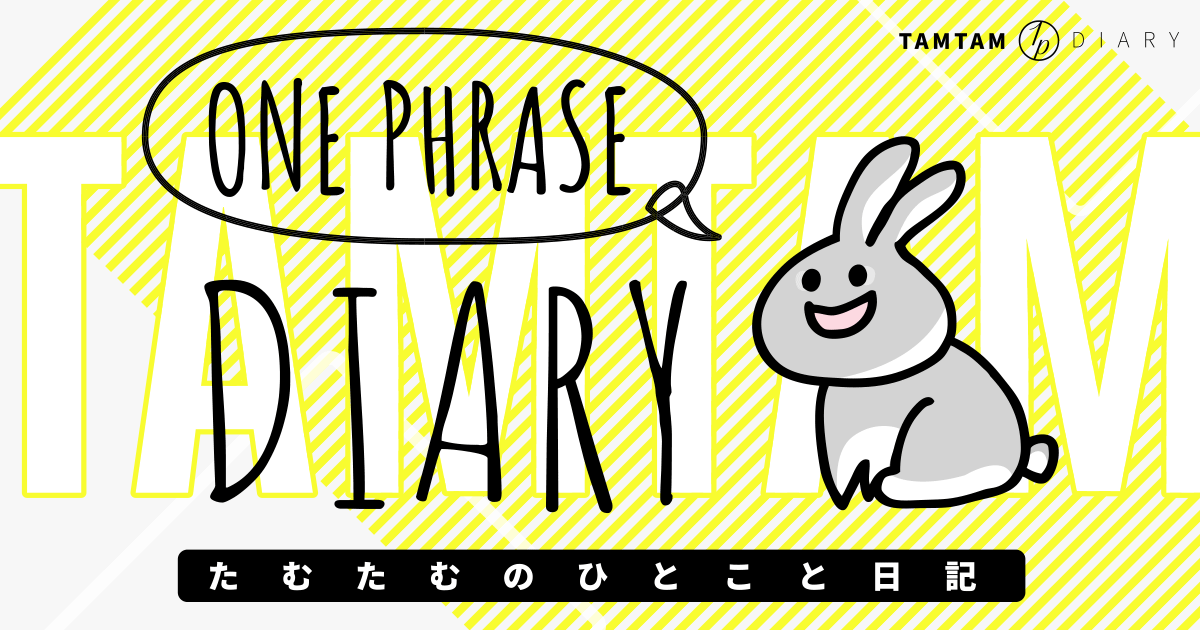
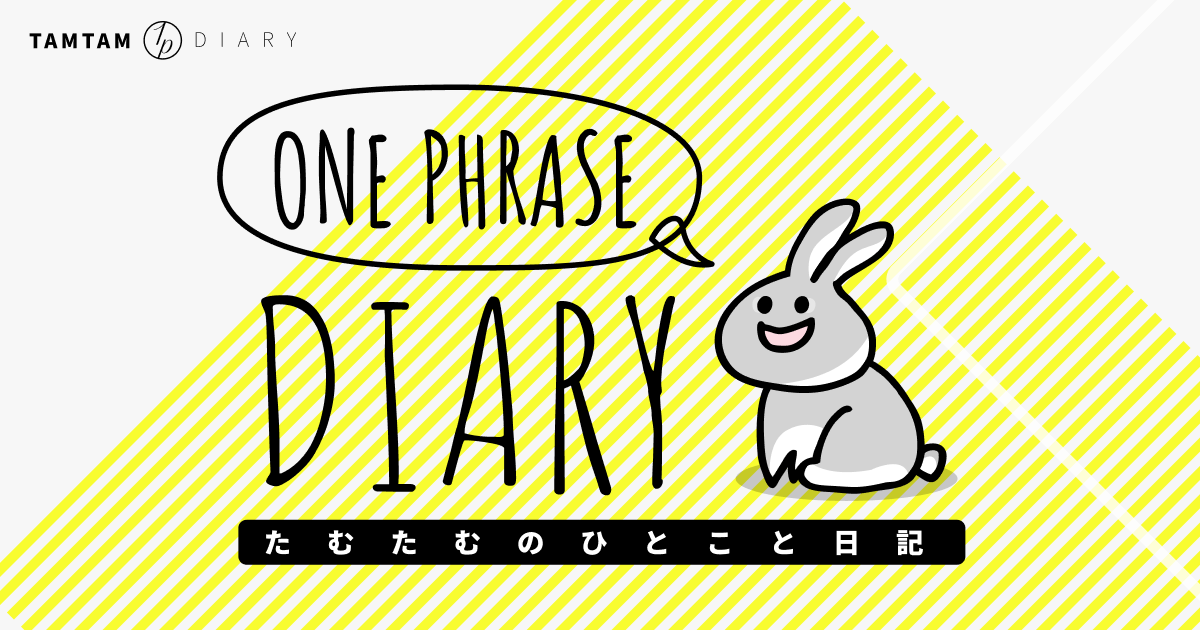
fix: scss, ogp, etc

diff --git a/src/components/scss/hero.scss b/src/components/scss/hero.scss
@@ -6,15 +6,6 @@
   align-items: center;
 }
 
-.bgHero {
-	position: absolute;
-	z-index: -1;
-	top: 0;
-	left: 0;
-	width: 100%;
-	height: 100%;
-}
-
 .heroImage {
   margin: 0;
   svg {
@@ -25,7 +16,8 @@
 
 @media (min-width: 600px) {
   .hero {
-    height: 30vw;
+    margin-top: 5rem;
+    margin-bottom: 5rem;
   }
   .heroImage {
     width: 50%;
@@ -34,7 +26,6 @@
     align-items: center;
     svg {
 			width: auto;
-      max-height: 370px;
     }
   }
 }

diff --git a/src/components/hero.js b/src/components/hero.js
@@ -1,13 +1,9 @@
 import React from 'react'
-import BgHero from "../../static/img/bg-hero.svg";
 import Hero from "../../static/img/hero.svg";
 import './scss/hero.scss'
 
 export default (props) => (
 	<div className='hero'>
-		<div className='bgHero'>
-			<BgHero />
-		</div>
 		<h1 className='heroImage'>
 			<Hero />
 		</h1>

diff --git a/src/components/scss/modalSearch.scss b/src/components/scss/modalSearch.scss
@@ -30,6 +30,8 @@
     animation: rotate 10s linear infinite;
     span {
         display: block;
+        color: #000;
+        text-decoration: none;
         &._text {
             display: none;
             @media (min-width: 600px) {
